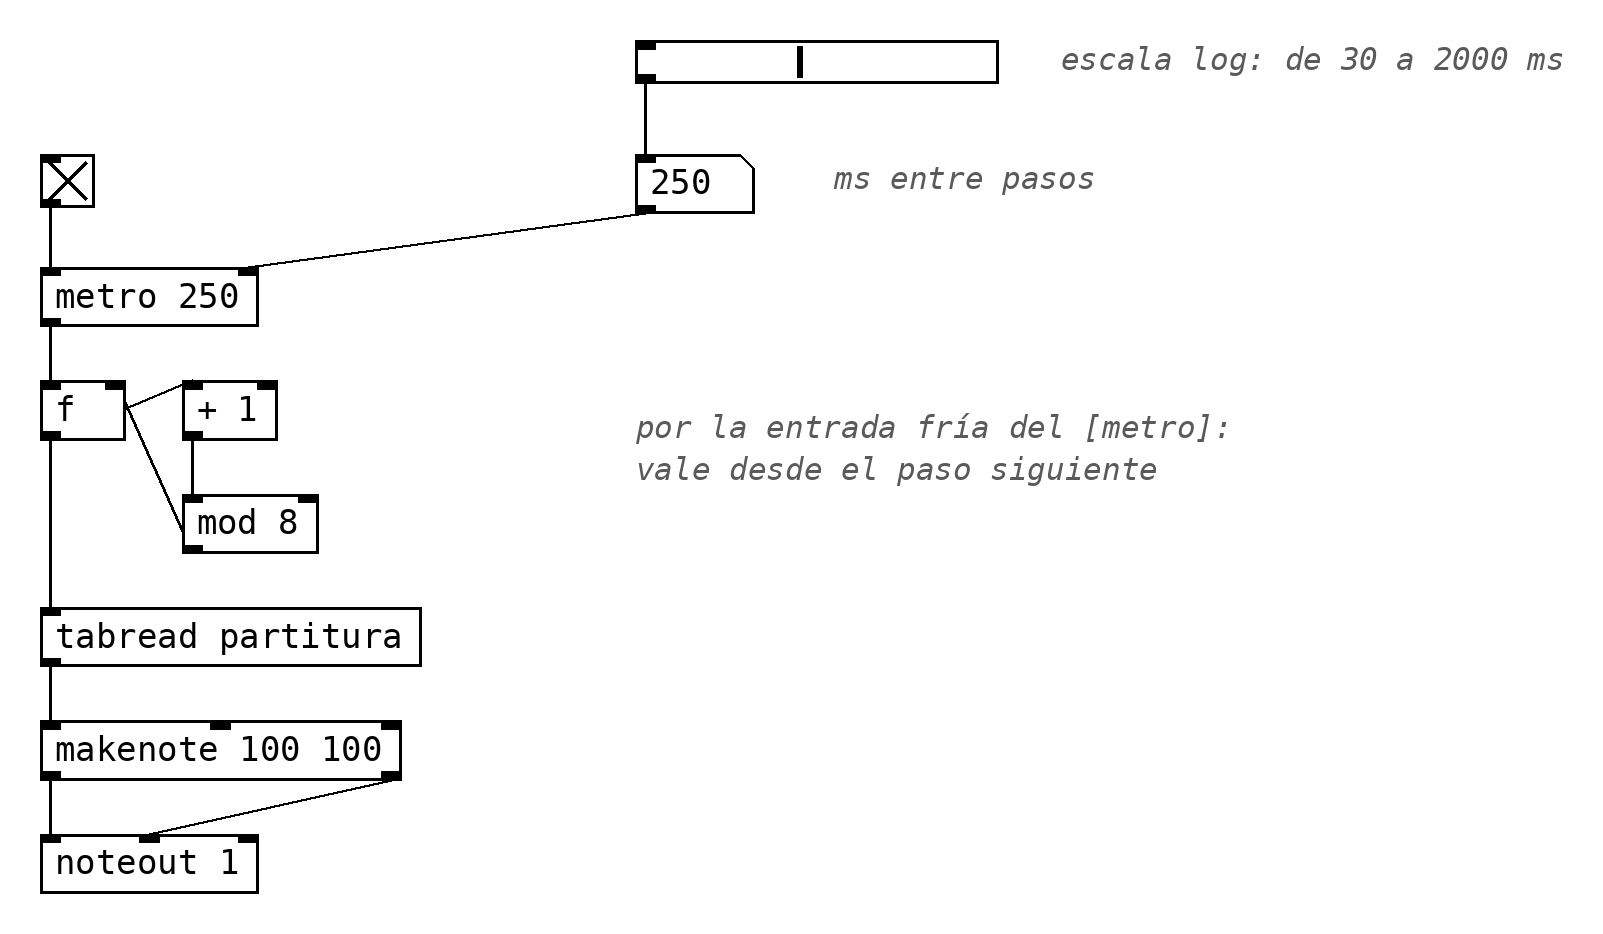
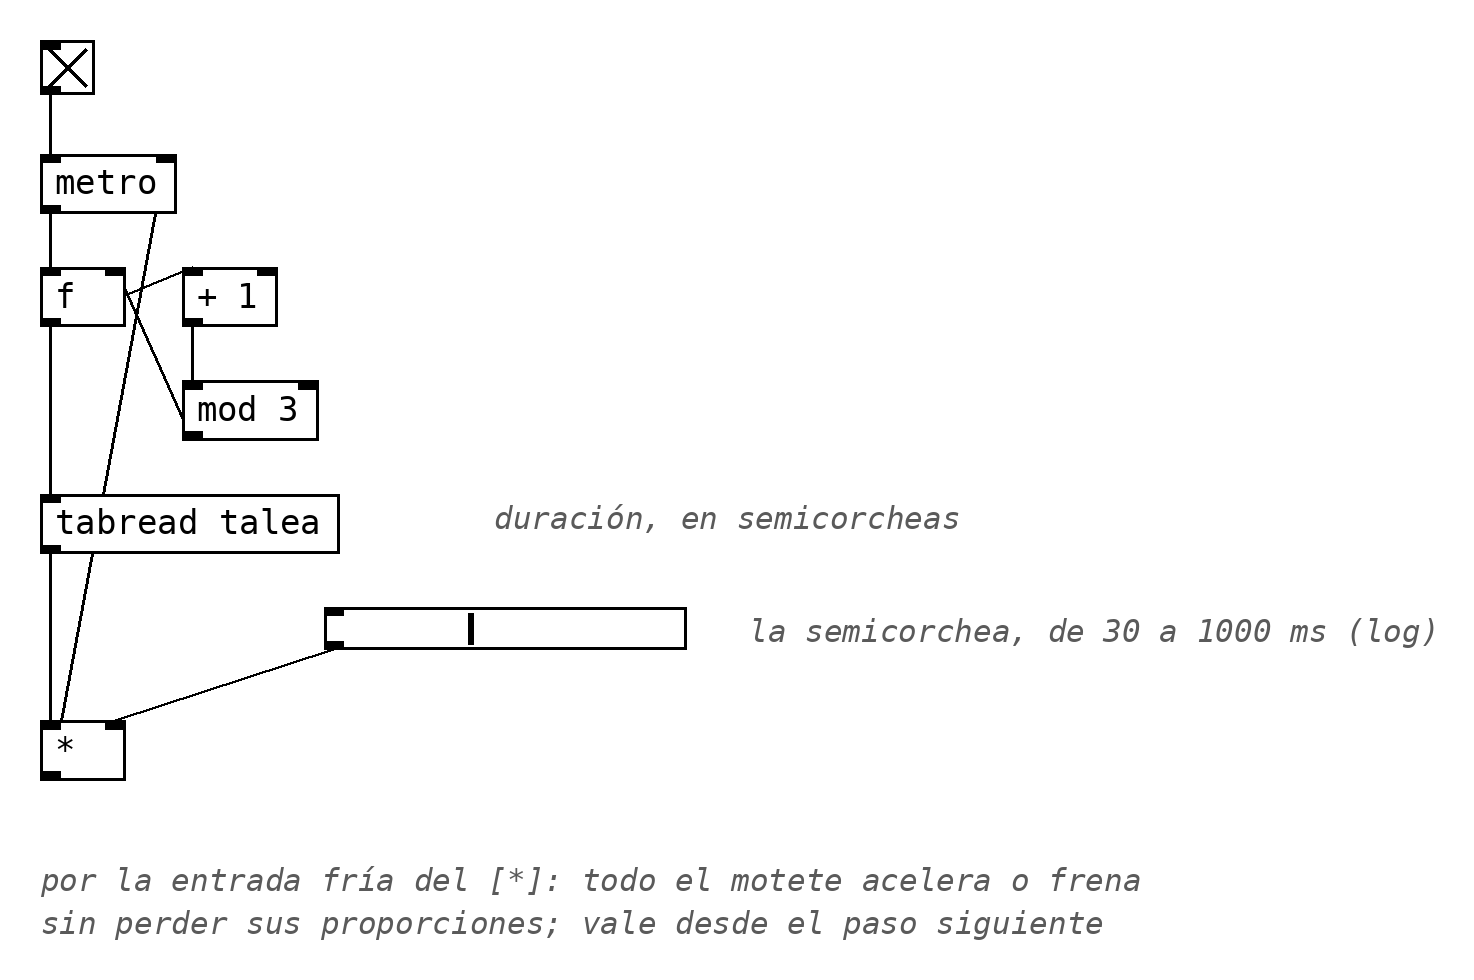
Publicación programada 2026-10-31 15:27

diff --git a/docs/sesiones/s2.md b/docs/sesiones/s2.md
@@ -25,8 +25,8 @@ En la S1 trabajamos con **una nota**: un número que se transporta, se invierte 
 
 1. Defensa de encargos (E1).
 2. Taller de predicción, para repasar la S1: antes de hacer clic, decimos qué va a pasar.
-3. La tabla como partitura: leerla, escribirla y cuantizarla (grados de una escala, semicorcheas). Una técnica: la isorritmia (dos tablas de distinta longitud, dos contadores).
-4. Taller: tu partitura, y tocarla desde la pantalla mientras suena: *sliders* para el tempo y la intensidad (*velocity*), y un teclado en pantalla (`[keyboard]`) para la transposición.
+3. La tabla como partitura: dibujarla, escribirla con mensajes (mandar sin cables) y cuantizarla (grados de una escala, semicorcheas). Una técnica: la isorritmia (dos tablas de distinta longitud, dos contadores). Escucha: Vitry y Du Fay.
+4. Taller: el motete isorrítmico entre todas, y tocarlo desde la pantalla mientras suena: *sliders* para la transposición y el tempo.
 
 **Tarde**
 
@@ -86,28 +86,30 @@ Una tabla (`[array]`) es una lista de números con un índice. La escala que en 
 
 ![La tabla como partitura](img/s2/texto/tabla-partitura.png){ width="729" }
 
-La tabla se escribe con el ratón: en modo ejecución, dibuja sobre ella. En sus propiedades (clic derecho) decides cuántas casillas tiene y su rango vertical.
+La tabla es también un objeto gráfico: se escribe con el ratón, dibujando sobre ella en modo ejecución. En sus propiedades (clic derecho) decides dos cosas distintas: **en horizontal, cuántas casillas** tiene (los índices: 0, 1, 2…, siempre enteros); **en vertical, el rango** de los valores que guarda (de 48 a 72, de 0 a 1… lo que necesites).
 
-#### Cuantizar: la tabla guarda índices
+#### Mandar sin cables
 
-Lo que dibujas con el ratón no cae en ninguna nota ni en ningún compás: la tabla guarda 2,6 o 4,1, y una duración de 287 ms. Para trabajar en una escala o en una métrica cerrada, la tabla no guarda notas ni milisegundos, sino **índices**:
+`[send nota]` (o `[s nota]`) manda lo que le llega a todos los `[receive nota]` (`[r nota]`), sin cable de por medio. **Los nombres son globales:** llegan a todos los patches abiertos, así que ponles nombres que no choquen.
 
-- La partitura guarda **grados** (de 0 a 6). `[int]` se queda con la parte entera, y otra tabla, la **escala**, dice a qué intervalo corresponde cada grado. Cambia la escala y cambias la interválica sin tocar la melodía.
-- Las duraciones se guardan en **semicorcheas** (1, 2, 3…) y se multiplican por lo que dura una semicorchea.
+![Mandar sin cables](img/s2/texto/send-receive.png){ width="762" }
 
-![Cuantizar alturas y duraciones](img/s2/texto/cuantizar.png){ width="970" }
-
-El `[metro]` cambia de tiempo en cada paso: lo que entra por su derecha vale desde el pulso siguiente. `[max 1]` evita una duración de cero.
+Aquí la nota no va a la DAW, sino a un oscilador: `[mtof]` la convierte en frecuencia y `[osc~]` (con un `[dac~]` detrás) la hace sonar en el propio Pd. Es el primer contacto con el audio; por la tarde veremos qué hay dentro.
 
 #### Escribir en una tabla
 
-Cuantizar ordena lo que dibujas. Pero si ya sabes qué melodía quieres, escríbela. Un mensaje que empieza por punto y coma manda su contenido a un nombre. Este escribe ocho grados en la tabla «grados», a partir de la casilla 0:
+Dibujar es rápido, pero impreciso. Para escribir exactamente una melodía, un mensaje que empieza por punto y coma es también un *send*: manda lo que sigue al nombre que va detrás. Este escribe cuatro notas en la tabla «partitura», a partir de la casilla 0:
 
-![Escribir con un mensaje](img/s2/texto/escribir-mensaje.png){ width="600" }
+![Escribir con un mensaje](img/s2/texto/escribir-mensaje.png){ width="628" }
 
-**Escribir tocando.** `[tabwrite partitura]` escribe el número que le llega por la izquierda (caliente) en la casilla que tiene en la derecha (fría). Con el contador de la S1, cada nota que tocas va a la casilla siguiente: la partitura se toca, no se teclea. Tocando escribes notas, no grados: lo que tocas ya está en la escala que elijas, así que esa tabla se lee sin pasar por la de la escala. Sin teclado MIDI (`[notein]`), `[keyboard]` de ELSE es un teclado de piano en pantalla; `[stripnote]` deja pasar solo las teclas que se pulsan (no las que se sueltan).
+#### Cuantizar las alturas
 
-![Escribir tocando](img/s2/texto/escribir-paso.png){ width="504" }
+Lo que dibujas con el ratón no cae en ninguna nota: la tabla guarda 2,6 o 4,1. Para trabajar dentro de una escala, la partitura no guarda notas, sino **grados**: el contorno de la melodía (de 0 a 6), y otra tabla, la **escala**, dice a qué intervalo corresponde cada grado. Cambia la escala y cambias la interválica sin tocar el contorno.
+
+- `[int]` se queda con la parte entera: 2,6 → grado 2.
+- `[+ 0.5]` antes de `[int]` **redondea** en lugar de truncar: 2,6 → grado 3, más cerca de lo que dibujaste.
+
+Con MIDI, la diferencia no se oye: `[noteout]` solo acepta notas enteras y trunca los decimales por su cuenta. Con el oscilador, sí: `[mtof]` acepta 62,6, y suena entre dos notas.
 
 #### Cuánto dura una semicorchea
 
@@ -117,13 +119,19 @@ Cuantizar ordena lo que dibujas. Pero si ya sabes qué melodía quieres, escríb
 
 Con `[mod]` y `[sel]` sobre un contador de semicorcheas sabes además en qué parte del compás estás: `[mod 4]` da la posición dentro de la negra; `[mod 16]`, dentro del compás.
 
+#### Cuantizar el tiempo
+
+Lo mismo con las duraciones: una tabla no guarda milisegundos (287 ms no cae en ningún compás), sino **semicorcheas** (1, 2, 3…), que se multiplican por lo que dura una semicorchea. El resultado entra por la derecha del `[metro]`: vale desde el pulso siguiente. `[max 1]` evita una duración de cero.
+
+![Cuantizar alturas y duraciones](img/s2/texto/cuantizar.png){ width="970" }
+
 #### Una técnica: la isorritmia
 
-En el patch de cuantizar, alturas y duraciones comparten contador: cada nota tiene siempre la misma duración. Dales tablas de distinta longitud y un contador a cada una, y tienes la técnica del motete del siglo XIV.
+En este patch, alturas y duraciones comparten contador: cada grado tiene siempre la misma duración. Dales tablas de distinta longitud y un contador a cada una, y tienes la técnica del motete del siglo XIV.
 
 ![Isorritmia](img/s2/isorritmia.jpg)
 
-En el motete isorrítmico del siglo XIV (Machaut, Vitry), un patrón de alturas (*color*) y uno de duraciones (*talea*) de distinta longitud se repiten a la vez. Como no coinciden, cada vuelta combina alturas y duraciones de otra manera, hasta que vuelven a encontrarse en el punto de partida. En Pd: dos tablas de distinta longitud, leídas por dos contadores.
+En el motete isorrítmico (Vitry, Machaut), un patrón de alturas (*color*) y uno de duraciones (*talea*) de distinta longitud se repiten a la vez. Como no coinciden, cada vuelta combina alturas y duraciones de otra manera, hasta que vuelven a encontrarse en el punto de partida. En Pd: dos tablas de distinta longitud, leídas por dos contadores.
 
 ![Isorritmia en Pd](img/s2/texto/isorritmia.png){ width="862" }
 
@@ -134,29 +142,30 @@ Hay más técnicas que salen igual de una tabla y un contador (retrogradación, 
 
 #### Tocar el secuenciador
 
-Hasta ahora el secuenciador se ejecuta y se escucha. **Tocarlo** es cambiar, mientras suena, los números que esperan en las entradas frías. El primero: el tempo.
+Hasta ahora el secuenciador se ejecuta y se escucha. **Tocarlo** es cambiar, mientras suena, los números que esperan en las entradas frías.
 
-**Los objetos gráficos.** Un *slider*, una caja de número, un *toggle*: imitan los controles del hardware de sonido y mandan números al moverlos.
+**Los objetos gráficos.** Un *slider*, una caja de número, un *toggle*: imitan los controles del hardware de sonido y mandan números al moverlos. Como la tabla, en sus propiedades decides su rango; y también pueden mandar y recibir sin cables: en las propiedades tienen su propio *send* y *receive*.
 
 ![Objetos gráficos de Pd vanilla](img/s1/gui-vanilla.png){ .patch }
 
-En las propiedades del *slider* (clic derecho) decides su rango y su escala. Para el tempo, **escala logarítmica** (*log*): en lineal, la mitad del recorrido se iría en tempos que apenas se distinguen, y los rápidos quedarían apretados en un extremo. En log, cada tramo igual del recorrido multiplica el tempo por lo mismo, que es como lo oímos.
+Dos ejes para tocar el motete:
 
-![Tocar el tempo con un slider](img/s2/texto/tocar-tempo.png){ width="802" }
+- **La transposición.** Un *slider* de −12 a 12 a la entrada fría de un `[+]`, entre la escala y la salida: la melodía se transporta desde la nota siguiente.
+- **El tempo.** Un *slider* para la unidad (la semicorchea), a la entrada fría del `[*]` de las duraciones: todo el motete acelera o frena sin perder sus proporciones. Para el tempo, mejor en **escala logarítmica** (*log*, en las propiedades): en lineal, la mitad del recorrido se iría en tempos que apenas se distinguen. En log, cada tramo igual del recorrido multiplica el tempo por lo mismo, que es como lo oímos. Por la tarde, este mismo *slider* nos llevará del ritmo a la altura.
 
-El *slider* entra por la derecha del `[metro]`: la entrada fría. No dispara nada: vale desde el paso siguiente. Por la tarde, este mismo gesto nos llevará del ritmo a la altura.
+![Tocar el tempo con un slider](img/s2/texto/tocar-tempo.png){ width="737" }
 
-El mismo gesto, dos veces más:
+Dos controles, una sola idea: un número que espera en una entrada fría y se toca mientras suena.
 
-- **La intensidad.** Otro *slider*, de 0 a 127, a la entrada central (fría) de `[makenote]`: la *velocity* de las notas siguientes.
-- **La transposición.** El `[keyboard]` con el que escribiste la partitura. Restándole 60 (`[- 60]`), da los semitonos que la separan del Do4, y entran por la entrada fría de un `[+]` entre la tabla y `[makenote]`: la melodía se transporta desde la nota siguiente.
+**Más maneras de tocar (si quieres ir más allá).**
 
-Tres controles, una sola idea: un número que espera en una entrada fría y se toca mientras suena.
-
-**El MIDI que entra (si tienes un teclado).** Pd también puede recibir notas: `[notein]` da la altura y la velocidad de lo que llega, de un teclado o de una pista de la DAW con plugdata dentro. La tecla que tocas transporta la melodía: entra por la entrada fría de `[+]` y vale desde la nota siguiente.
+- **Con un teclado.** `[notein]` recibe las notas de un teclado MIDI o de una pista de la DAW con plugdata dentro; `[keyboard]` de ELSE es un teclado en pantalla. Restándole 60 (`[- 60]`), la tecla da los semitonos de transposición.
 
 ![Transportar tocando](img/s2/texto/tocar.png){ width="618" }
 
+- **Escribir tocando.** `[tabwrite partitura]` escribe el número que le llega por la izquierda (caliente) en la casilla que tiene en la derecha (fría). Con el contador de la S1, cada nota que tocas va a la casilla siguiente: la partitura se toca, no se teclea. Tocando escribes notas, no grados: esa tabla se lee sin pasar por la escala. `[stripnote]` deja pasar solo las teclas que se pulsan (no las que se sueltan).
+
+![Escribir tocando](img/s2/texto/escribir-paso.png){ width="504" }
 
 ### Tarde: la tabla como forma de onda
 
@@ -215,7 +224,7 @@ Lo que en la DAW hacía el sinte por ti (la envolvente, el volumen, la salida) a
 
 ![El primer sinte propio](img/s2/texto/sinte-tabla.png){ width="724" }
 
-La nota llega del secuenciador sin cables: `[s nota]` manda a todos los `[r nota]`. **Los nombres son globales:** un `[send algo]` llega a todos los `[receive algo]` de todos los patches abiertos. Ponles nombres que no choquen.
+La nota llega del secuenciador sin cables, con el `[s nota]` / `[r nota]` de la mañana.
 
 !!! tip "Ten un espectrograma abierto"
     A partir de hoy, cuando algo suene, míralo además de oírlo. `[spectrograph~]` de ELSE nos acompañará todo el curso: conéctale lo mismo que va al `[dac~]`.
@@ -295,22 +304,23 @@ Un potenciómetro manda valores de 0 a 127; el tempo necesita, por ejemplo, de 6
 | Objetos | Para qué |
 |---|---|
 | **Mañana** | |
-| `[array]` · `[tabread]` · `[tabwrite]` | Una tabla: partitura, escala, duraciones. Se lee y se escribe con un índice. |
-| `[int]` · `[max]` | Quedarse con la parte entera; poner un mínimo. Cuantizar. |
-| *slider* · número · *toggle* · `[keyboard]` | Tocar el patch desde la pantalla: mandar números al moverlos. El *slider* del tempo, en escala log. |
+| `[array]` · `[tabread]` | Una tabla: partitura, escala, duraciones. Se lee con un índice. En sus propiedades, cuántas casillas y qué rango. |
+| `[send]` · `[receive]` · `; nombre …` | Mandar sin cables, de uno a muchos. Un mensaje con punto y coma también manda: así se escribe en una tabla. Los nombres son globales. |
+| `[mtof]` · `[osc~]` · `[dac~]` | Oír la nota en Pd, con decimales: el primer contacto con el audio. |
+| `[int]` · `[+ 0.5]` · `[max]` | Truncar o redondear; poner un mínimo. Cuantizar. |
+| *slider* · número · *toggle* | Tocar el patch: mandar números al moverlos. Con su rango y su propio *send*. El del tempo, en escala log. |
 | **Tarde** | |
 | `[phasor~]` | Una rampa de 0 a 1: el contador, a velocidad de audio. |
 | `[tabread4~]` · `[tabread~]` | Leer una tabla a velocidad de audio: interpolando (una forma de onda) o a saltos (una partitura). |
-| `[mtof]` · `[mtof~]` | De nota a frecuencia, en control y en señal. |
+| `[mtof~]` | De nota a frecuencia, en señal. |
 | `[vline~]` · `[*~]` | La envolvente y su aplicación. También, un volumen sin clics. |
-| `[dac~]` | La salida a la tarjeta de sonido. |
-| `[send]` · `[receive]` · `[s~]` · `[r~]` | Sin cables, de uno a muchos: la nota al sinte, la velocidad maestra a las voces. Los nombres son globales. |
+| `[s~]` · `[r~]` | El `[send]`/`[receive]` de la señal: la velocidad maestra a las voces. |
 | `[throw~]` · `[catch~]` | Sin cables, de muchos a uno: el bus que suma las voces. |
 
 - **La tabla es una partitura,** y el contador de la S1, su lector.
 - **La tabla guarda índices:** grados de una escala y semicorcheas. Así cualquier trazo suena en la escala y en el compás. El tempo es una división: 60.000 / bpm.
 - **Una técnica es aritmética sobre el índice:** la isorritmia son dos contadores con distinto `[mod]`, que tardan en volver a coincidir.
-- **Tocar el patch** es cambiar los números que esperan en las entradas frías, mientras suena: el tempo, la intensidad, la transposición, la velocidad.
+- **Tocar el patch** es cambiar los números que esperan en las entradas frías, mientras suena: la transposición, el tempo, la velocidad.
 - **Ritmo y altura son el mismo continuo** a distinta velocidad: hacia los 20 golpes por segundo, el ritmo se oye como altura.
 - **Señal y control.** La señal (`~`, cable grueso) es un flujo continuo; el control solo existe cuando pasa algo.
 - **La misma tabla y el mismo índice, a dos velocidades:** por la mañana, una partitura; por la tarde, una forma de onda.
